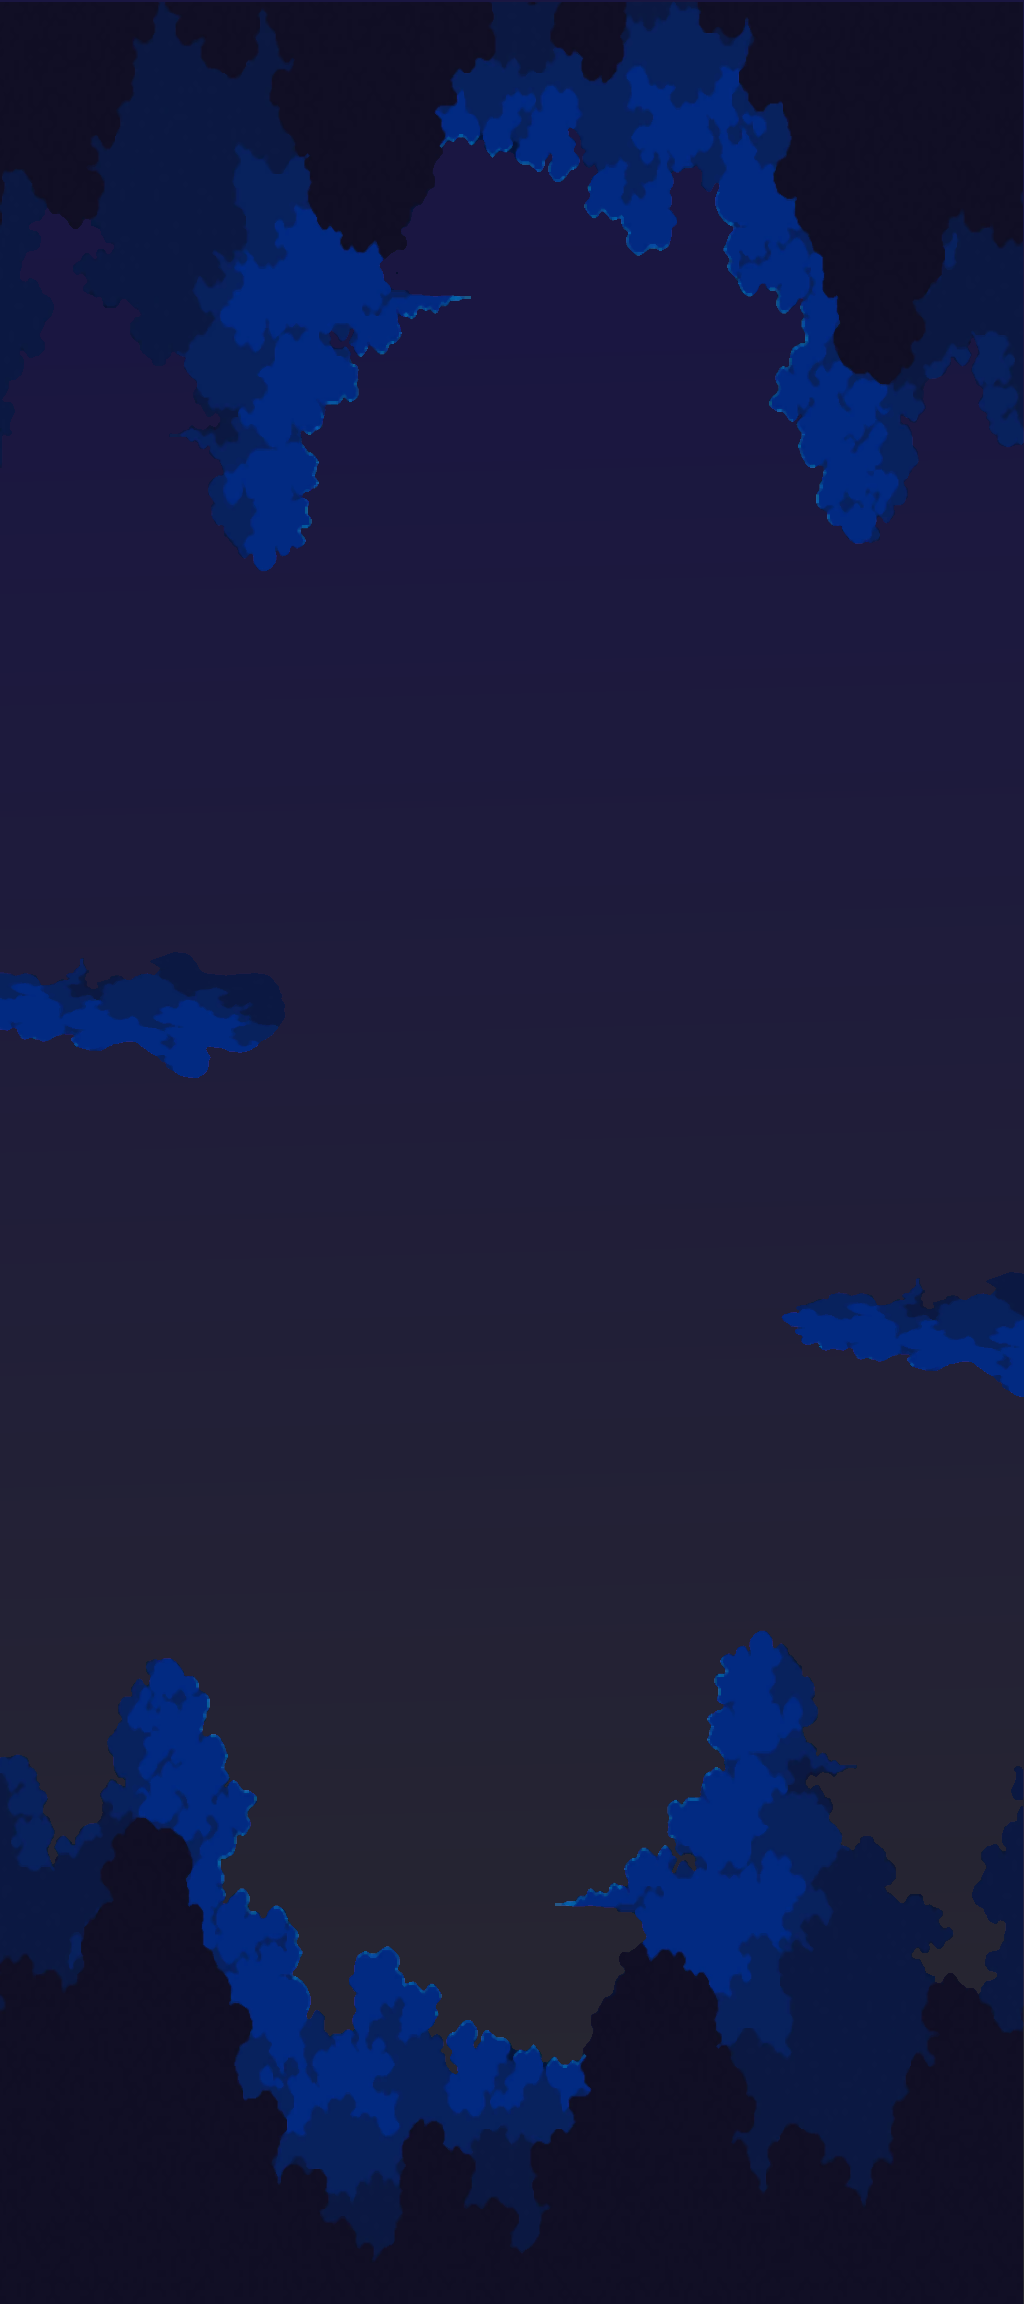
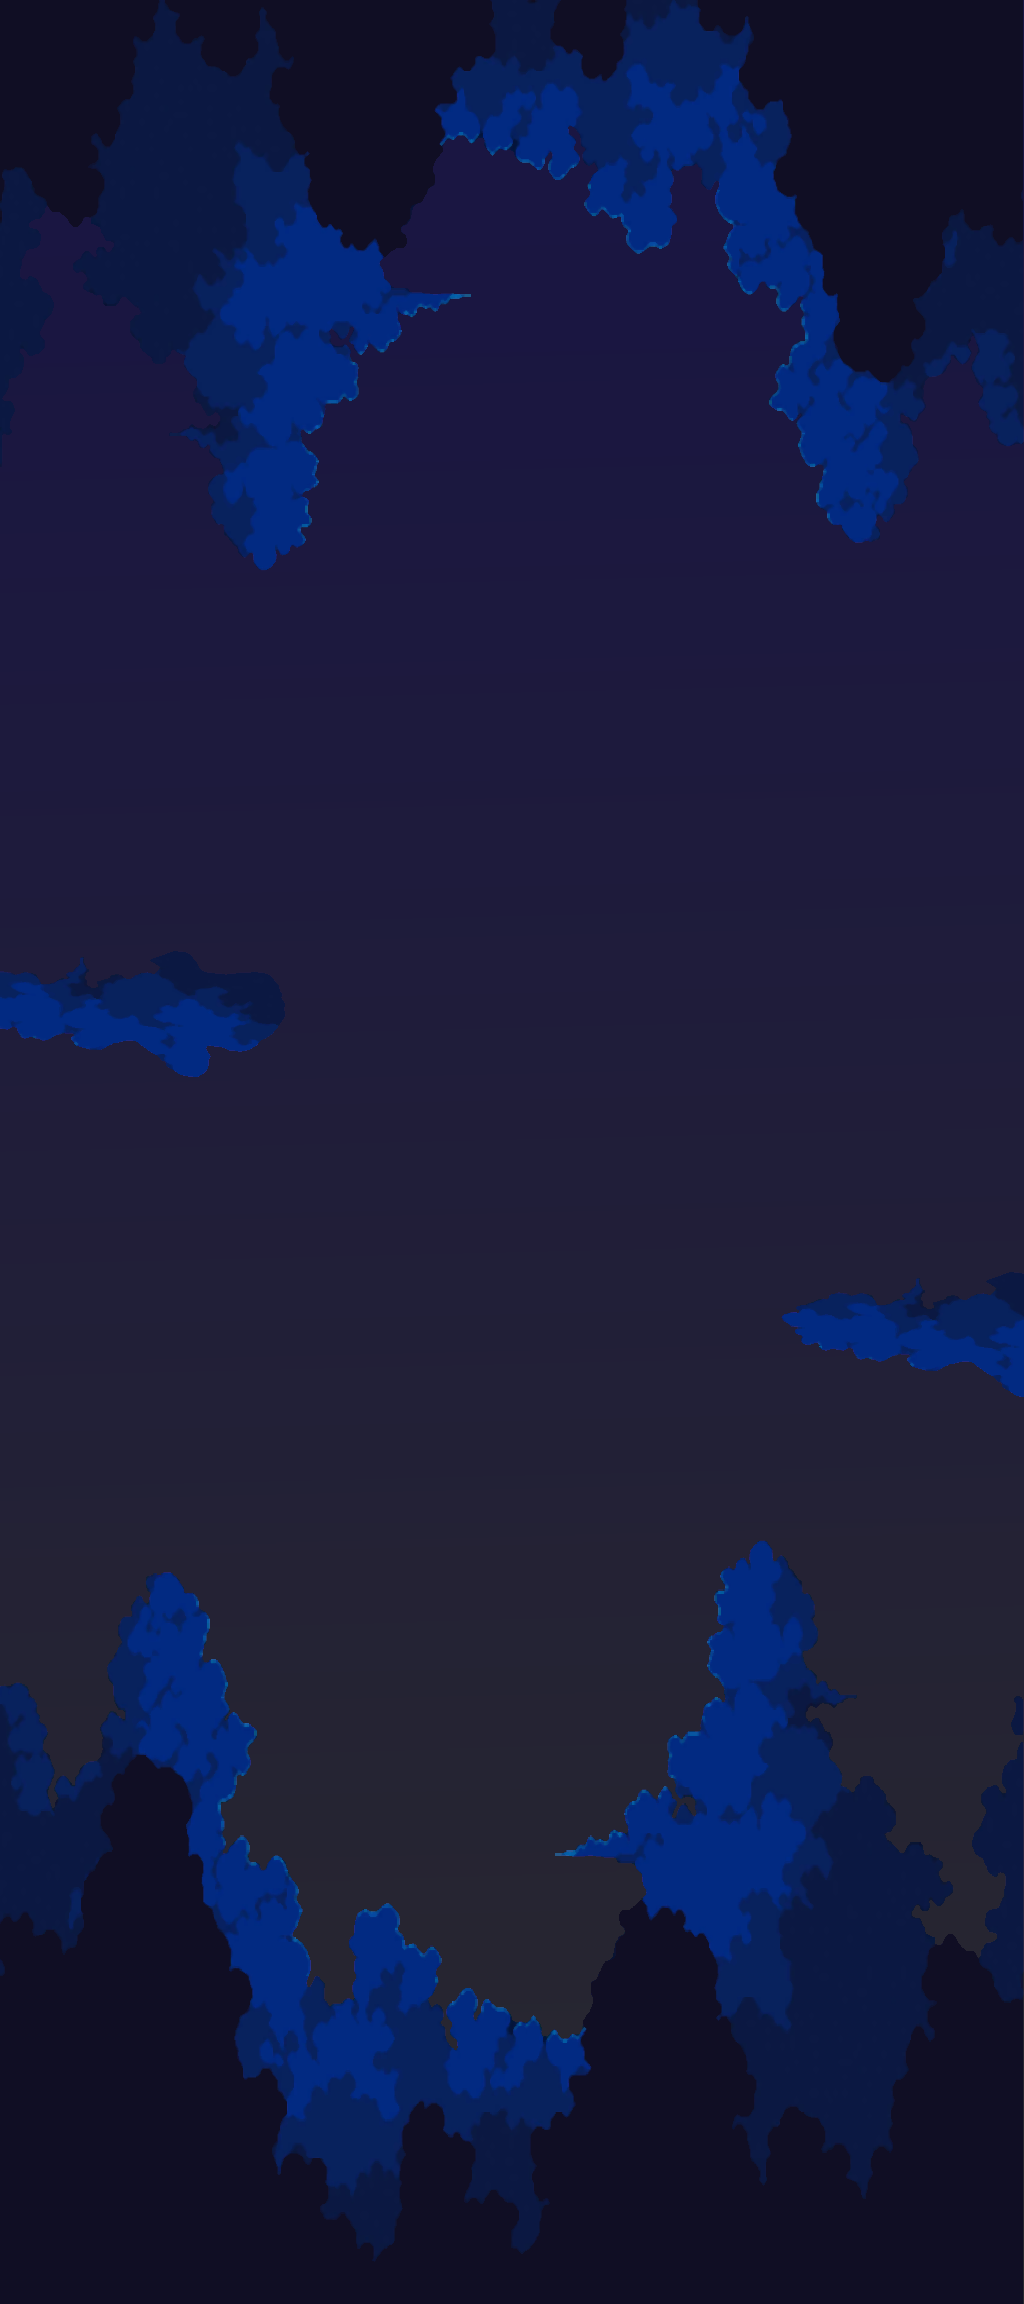
Added InGameDialogue for shermie dialogue

Changed region(s): [[0.0, 0.6875, 0.5938, 0.9688], [0.5625, 0.6562, 1.0, 0.9375]]

diff --git a/src/scenes/Game.js b/src/scenes/Game.js
@@ -6,6 +6,7 @@ import { Barrier } from '../objects/barrier.js';
 import ScoreManager from '../utils/ScoreManager.js';
 import { GridEnemy } from '../objects/enemy_grid';
 import { EventDispatcher } from '../utils/event_dispatcher.js';
+import InGameDialogueManager from '../utils/InGameDialogueManager.js';
 
 
 // The imports below aren't necessary for functionality, but are here for the JSdoc descriptors.
@@ -21,12 +22,13 @@ import { SoundBank } from '../sounds';
 
 export class Game extends Scene {
     emitter = EventDispatcher.getInstance();
+
     constructor() {
         super('Game');
     }
 
     create() {
-
+        this.inGameDialogueManager = new InGameDialogueManager(this);
         // fade in from black
         this.cameras.main.fadeIn(1000, 0, 0, 0);
 
@@ -36,8 +38,17 @@ export class Game extends Scene {
 
         // create/scale BG image 
         let bgKey = `BG${this.level}`;
-        let bg = this.add.image(0, 0, bgKey).setAlpha(0.90);
-        bg.setOrigin(0, 0);
+        if (this.level === 3 || this.level === 5) {
+            // If the level is 3 or 5, create a TileSprite instead of a static image
+            let bg = this.add.tileSprite(0, 0, this.sys.game.config.width, this.sys.game.config.height, bgKey);
+            bg.setOrigin(0, 0);
+            bg.setScrollFactor(0); // This makes sure it doesn't scroll with the camera
+            this.bgScrollSpeed = 0.5; // Adjust scroll speed as needed
+        } else {
+            // For other levels, just add the image normally
+            let bg = this.add.image(0, 0, bgKey).setAlpha(.90);
+            bg.setOrigin(0, 0);
+        }
 
         // Object spawner only needed during gameplay, so we initialize it in this scene.
         this.objs = new ObjectSpawner(this);
@@ -91,6 +102,7 @@ export class Game extends Scene {
 
         // Mute when m is pressed
         this.keys.m.on('down', this.sounds.toggle_mute);
+
     }
 
     pause() {
@@ -150,6 +162,15 @@ export class Game extends Scene {
         this.updateShieldSprites();
         this.objs.ai_grid_enemies(time);
         this.check_gameover();
+
+        if (this.level === 3 || this.level === 5) {
+            this.children.list.forEach((child) => {
+                if (child instanceof Phaser.GameObjects.TileSprite) {
+                    // Move the background for a scrolling effect
+                    child.tilePositionY -= this.bgScrollSpeed * delta/2;
+                }
+            });
+        }
     }
 
 
@@ -224,10 +245,10 @@ export class Game extends Scene {
                 } else {
                     this.objs.explode_at(player.x, player.y);
                     player.die();
-                    //if (this.player_vars.lives === 0)
-                        //this.start_dialogue('shermie_dead', false);
-                    //else
-                       // this.start_dialogue('shermie_hurt', false);
+                    if (this.player_vars.lives === 0)
+                        this.inGameDialogueManager.displayDialogue('shermie_dead', 3000);
+                    else
+                        this.inGameDialogueManager.displayDialogue('shermie_hurt', 3000);
                 }
             }
         });

diff --git a/src/utils/InGameDialogueManager.js b/src/utils/InGameDialogueManager.js
@@ -1,0 +1,66 @@
+import { EventDispatcher } from "../utils/event_dispatcher";
+import dialogue_data from './data/dialogue.json'; // Ensure correct path
+import { fonts } from '../utils/fontStyle.js';
+
+class InGameDialogueManager {
+    constructor(scene) {
+        this.scene = scene;
+        this.emitter = EventDispatcher.getInstance();
+        this.textData = dialogue_data;
+        this.isActive = false;
+        this.currentLineIndex = 0;
+        this.initDialogueBox();
+    }
+
+    initDialogueBox() {
+        this.dialogueBox = this.scene.add.text(
+            this.scene.cameras.main.centerX, // Centered horizontally
+            this.scene.cameras.main.height * 0.85, // Positioned at the bottom of the screen
+            '', // Initial text
+            {
+                ...fonts.medium,
+                align: 'center',
+                fixedWidth: 800, // Adjust as needed
+                fixedHeight: 100, // Adjust as needed
+            }
+        ).setOrigin(0.5, 0.5).setVisible(false).setDepth(169);
+    }
+
+    displayDialogue(key, duration = 3000) {
+        const dialogueEntry = this.textData.find(entry => entry.key === key);
+        if (!dialogueEntry) {
+            console.error(`Dialogue key "${key}" not found.`);
+            return;
+        }
+
+        this.isActive = true;
+        this.currentLineIndex = 0;
+        this.showLine(dialogueEntry.lines[this.currentLineIndex]);
+
+        // Advance through dialogue lines or hide after duration
+        let lineTimerDuration = duration / dialogueEntry.lines.length;
+        this.scene.time.addEvent({
+            delay: lineTimerDuration,
+            repeat: dialogueEntry.lines.length - 1,
+            callback: () => {
+                this.currentLineIndex++;
+                if (this.currentLineIndex < dialogueEntry.lines.length) {
+                    this.showLine(dialogueEntry.lines[this.currentLineIndex]);
+                } else {
+                    this.hideDialogue();
+                }
+            }
+        });
+    }
+
+    showLine(line) {
+        this.dialogueBox.setText(line).setVisible(true);
+    }
+
+    hideDialogue() {
+        this.dialogueBox.setVisible(false);
+        this.isActive = false;
+    }
+}
+
+export default InGameDialogueManager;

diff --git a/src/utils/dialogue_manager.js b/src/utils/dialogue_manager.js
@@ -28,7 +28,7 @@ class DialogueManager extends Phaser.GameObjects.Container {
 
     delay_timer = 0.5;
 
-    constructor(scene, x = 310, y = 30) {
+    constructor(scene, x = 310, y = 20) {
         super(scene, x, y);
         scene.add.existing(this);
         scene.events.on('update', this.update, this);
